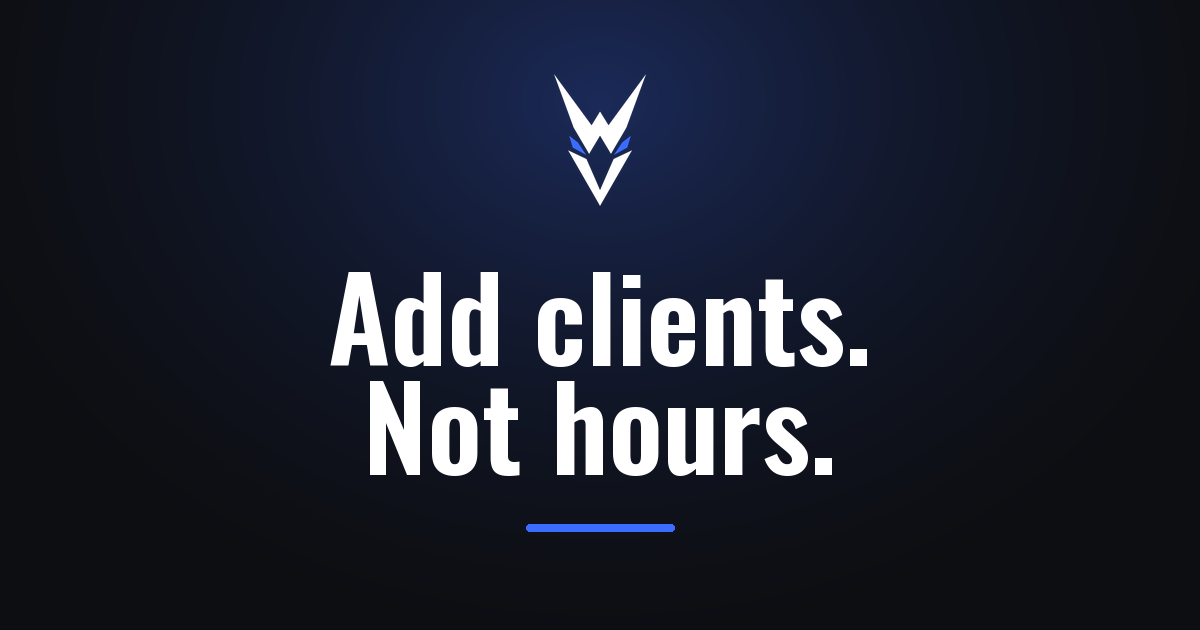
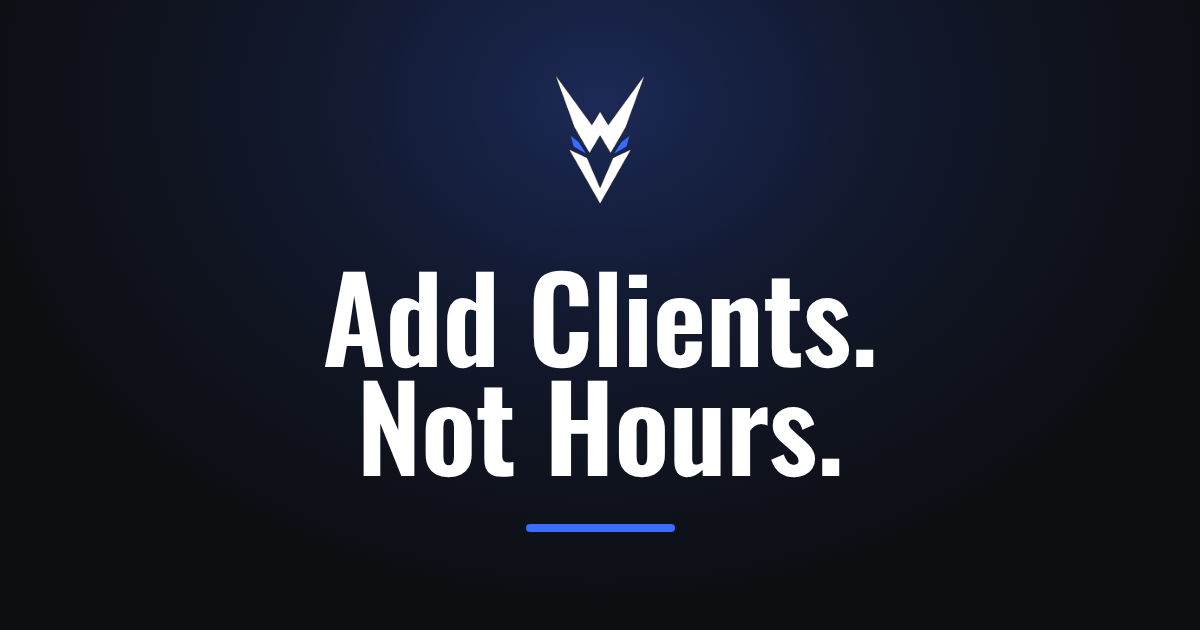
copy(homepage): homepage v3 (W734)
* copy(homepage): homepage v3 (W734)

Applies S:\Market_Capture\mock\build\wolvec-homepage-v3.patch unchanged
(sha256 0c14346f39773b3087ab38bf495042231b74f2dda7c5d36874a29f97c7e50966)
on origin/main f3eca4b.

Builder additions beyond the patch, as the brief allows:
- src/assets/photos/problem-coach.jpg: Pexels 4720507, Ketut Subiyanto,
  Pexels License, https://www.pexels.com/photo/man-holding-bottled-juice-while-using-phone-4720507/
- src/assets/photos/client-training.jpg: Pexels 4428992, Ketut Subiyanto,
  Pexels License, https://www.pexels.com/photo/crop-woman-using-devices-for-pulse-controlling-4428992/
- src/assets/photos/LICENSES.md recording both, retrieved 2026-10-21
- Squeeze.astro: photo band default object-position 50% 40% -> 50% 60%
  so the band keeps the hands, phone and bottle in frame

* fix(hero): hero card label 12 px minimum (W734 claim g)

* copy(homepage): exercise card moves to counsel's stronger wording (W734 ruling 3)

Platform card title and body change to counsel's verbatim stronger version,
approved once essentially all 1,394 licensed entries carry an animated demo
and step-by-step instructions (condition recorded as met, W753 count).
Basis: Standing Decision "MARKETING: never claim the AI reproduces the coach;
homepage counsel round 2 (counsel, 2026-10-21)", item 1:
https://app.notion.com/p/4013d9e0678481a9af9ad95fabf9e9d7
Title changed in both places (card and the "Build the training" group list).
[…]

Changed region(s): [[0.2467, 0.4222, 0.74, 0.754], [0.4625, 0.2111, 0.5242, 0.3016]]

diff --git a/CLAUDE.md b/CLAUDE.md
@@ -29,10 +29,18 @@ marketer's paraphrase.
 4. **All email senders are `wolvec.ai` only** — `ermstack.dev` is never a
    sender; it is not a verified Resend domain and sends from it silently
    fail (Standing Decision, 2026-06-09, *durable*).
-5. **Positioning guardrail**: the AI is "more access to your coach," never
-   automation or a bot replacing them — clients detect and resent
-   bot-flavored messaging. No specific interview duration in marketing copy
-   (Standing Decision, 2026-07-17, *durable*).
+5. **Positioning**: this coach-facing site may use automate / automation /
+   automatic language (founder ruling 2026-10-21, Standing Decision
+   superseding the 2026-07-17 "never automation" rule). Copy that clients
+   read inside the app still frames the AI as more access to their coach.
+   Automation claims must be true as written (review is the default, every
+   program week needs coach approval) or go to counsel. No specific
+   interview duration in marketing copy.
+6. **Never claim the AI reproduces the coach** (counsel, 2026-10-21): no
+   "much like you would", "like you", "sounds like you" or similar for replies or
+   program drafts. Say what it is configured from: "based on how you coach".
+   The Safety section's limitation ("may not identify every concern") is
+   never removed or weakened without counsel.
 
 Pull exact current wording from Notion "Standing Decisions" before relying on
 the summaries above — they compress, they do not replace, the record.

diff --git a/src/assets/photos/LICENSES.md b/src/assets/photos/LICENSES.md
@@ -1,0 +1,26 @@
+# Photo licences
+
+Every photo shipped from this folder is recorded here. Only the Pexels License
+or the standard Unsplash License (not Unsplash+), nothing editorial-only and
+nothing AI generated. The older step-01/02/03 files in this folder have an
+unknown licence and must not be used.
+
+## problem-coach.jpg
+
+- Slot: Squeeze.astro photo band ("Why coaches hit a ceiling")
+- File: src/assets/photos/problem-coach.jpg (2000x1333, 238,179 bytes, downloaded at 2000 px wide)
+- Photo page: https://www.pexels.com/photo/man-holding-bottled-juice-while-using-phone-4720507/
+- Title on page: "Man Holding Bottled Juice While Using Phone"
+- Photographer: Ketut Subiyanto (https://www.pexels.com/@ketut-subiyanto/)
+- Licence: Pexels License, https://www.pexels.com/license/
+- Retrieved: 2026-10-21
+
+## client-training.jpg
+
+- Slot: ClientExperience.astro photo ("The client experience")
+- File: src/assets/photos/client-training.jpg (1600x1067, 128,839 bytes, downloaded at 1600 px wide)
+- Photo page: https://www.pexels.com/photo/crop-woman-using-devices-for-pulse-controlling-4428992/
+- Title on page: "Crop woman using devices for pulse controlling"
+- Photographer: Ketut Subiyanto (https://www.pexels.com/@ketut-subiyanto/)
+- Licence: Pexels License, https://www.pexels.com/license/
+- Retrieved: 2026-10-21
